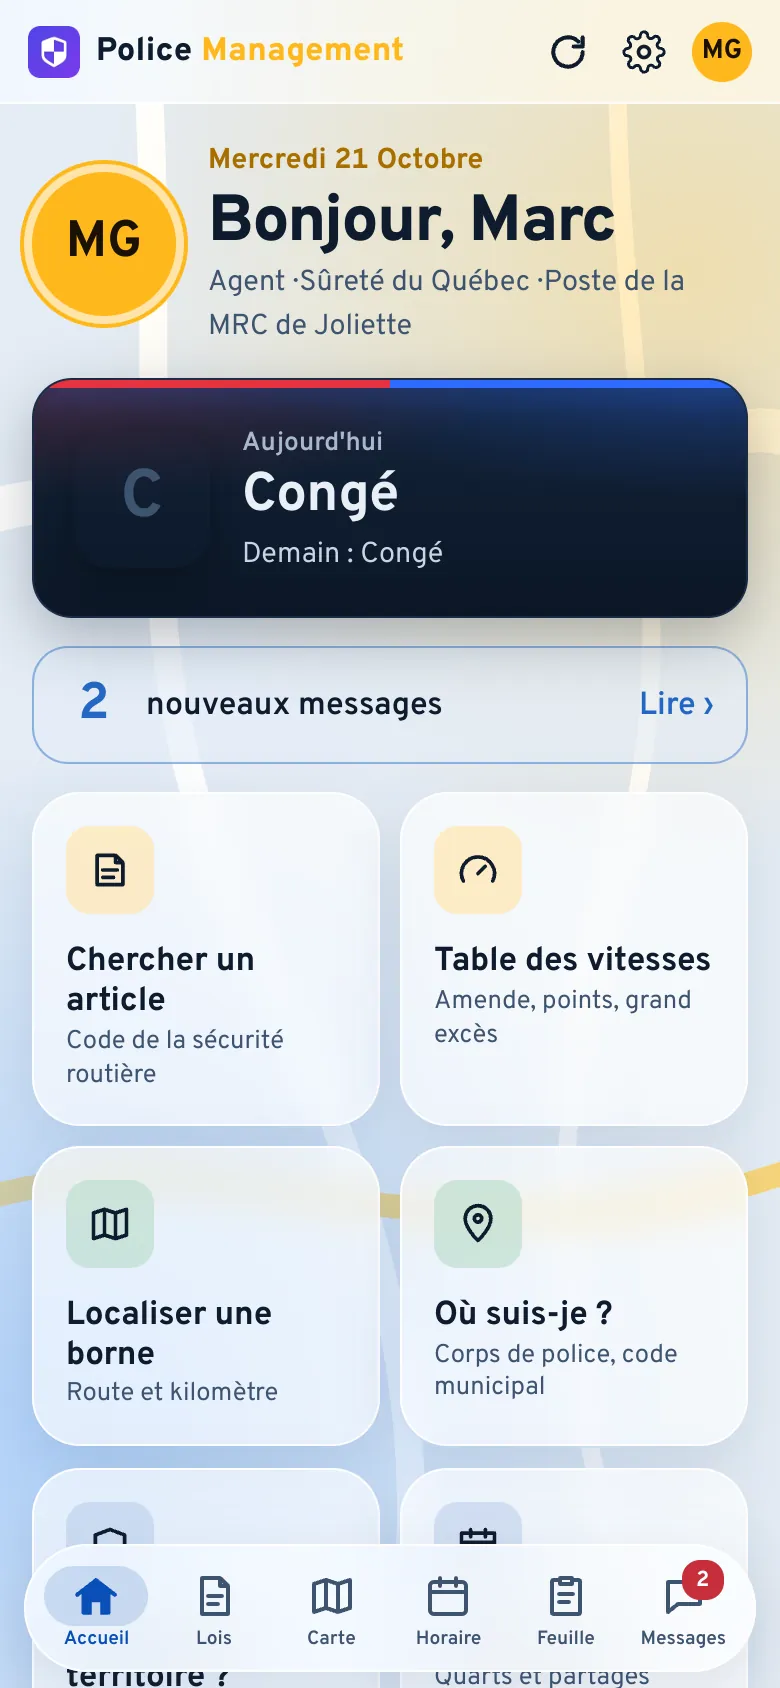
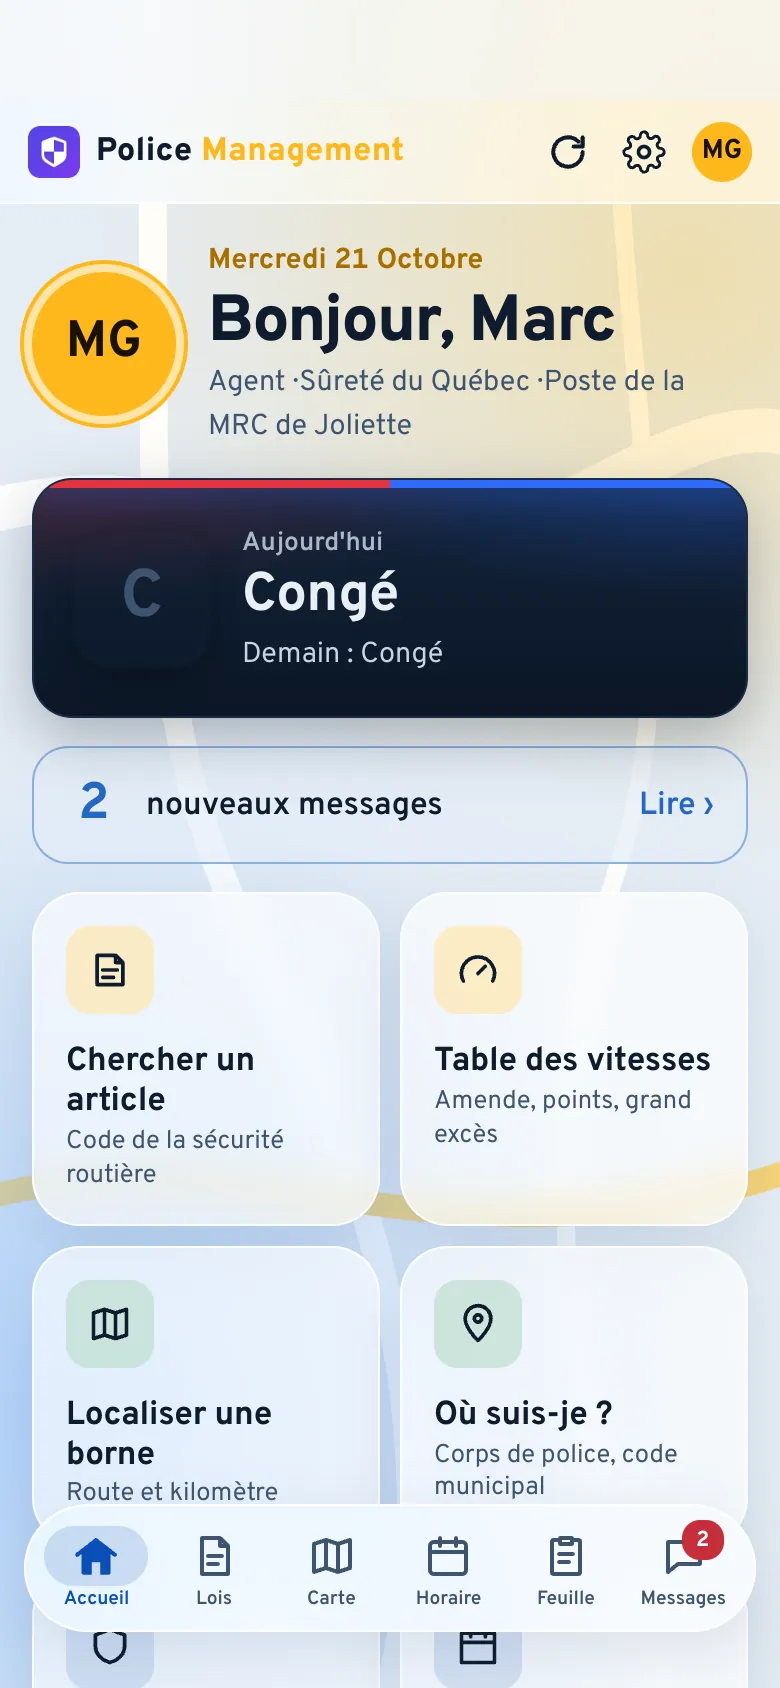
Site public : fond clair jusqu'en bas sous la barre de Safari, captures avec marge d'écran et carte épurée
Claude-Session: https://claude.ai/code/session_01JdNvQNMvCGXjwebYM2w4SW

diff --git a/styles.css b/styles.css
@@ -1973,7 +1973,7 @@ html.verre-leger:not([data-style]) { --verre-flou: blur(10px); }
 
 /* ---------- Site public (visiteurs) en Liquid Glass ---------- */
 .site { position: relative; isolation: isolate; background: transparent; --s-violet: #0A4FB8; }
-.site::before { content: ""; position: fixed; inset: 0; z-index: -1; pointer-events: none;
+.site::before { content: ""; position: fixed; top: 0; left: 0; right: 0; height: 100vh; height: 100lvh; z-index: -1; pointer-events: none;
   background: radial-gradient(circle at 88% 22%, rgba(255, 197, 61, .32), transparent 36%), radial-gradient(circle at 6% 80%, rgba(125, 183, 255, .45), transparent 40%), #E4ECF5; }
 .site-barre { background: rgba(8, 12, 22, .55); -webkit-backdrop-filter: blur(24px) saturate(180%); backdrop-filter: blur(24px) saturate(180%); box-shadow: inset 0 -1px 0 rgba(255, 255, 255, .12); }
 .site-hero { background: radial-gradient(60% 80% at 0% 10%, rgba(224, 38, 59, .42), transparent 62%), radial-gradient(60% 80% at 100% 15%, rgba(37, 99, 235, .48), transparent 62%), radial-gradient(60% 60% at 50% 110%, rgba(37, 99, 235, .25), transparent 60%), #06070D; }

diff --git a/index.html b/index.html
@@ -22,7 +22,7 @@
   <link rel="preconnect" href="https://fonts.gstatic.com" crossorigin>
   <link rel="stylesheet" href="https://fonts.googleapis.com/css2?family=Overpass:wght@400;500;600;700;800&family=Overpass+Mono:wght@500;600&family=IBM+Plex+Mono:wght@500;600&display=swap">
   <link rel="stylesheet" href="https://unpkg.com/leaflet@1.9.4/dist/leaflet.css" crossorigin="">
-  <link rel="stylesheet" href="styles.css?v=202610211912">
+  <link rel="stylesheet" href="styles.css?v=202610211919">
 </head>
 <body>
   <!-- Chargement -->
@@ -1458,9 +1458,9 @@
 
   <div id="toast" class="toast" role="status" hidden></div>
 
-  <script src="config.js?v=202610211912"></script>
+  <script src="config.js?v=202610211919"></script>
   <script src="https://cdn.jsdelivr.net/npm/@supabase/supabase-js@2.45.4/dist/umd/supabase.min.js"></script>
   <script src="https://unpkg.com/leaflet@1.9.4/dist/leaflet.js" crossorigin=""></script>
-  <script src="app.js?v=202610211912"></script>
+  <script src="app.js?v=202610211919"></script>
 </body>
 </html>

diff --git a/sw.js b/sw.js
@@ -1,6 +1,6 @@
 // Police Management — service minimal : réseau d'abord (toujours revalidé), copie locale en secours hors ligne.
 // Les appels à Supabase et aux autres sites ne sont jamais mis en cache.
-const CACHE = "police-management-202610211912";
+const CACHE = "police-management-202610211919";
 self.addEventListener("install", () => self.skipWaiting());
 self.addEventListener("activate", (e) => e.waitUntil(
   caches.keys().then((cles) => Promise.all(cles.filter((c) => c !== CACHE).map((c) => caches.delete(c)))).then(() => self.clients.claim())
